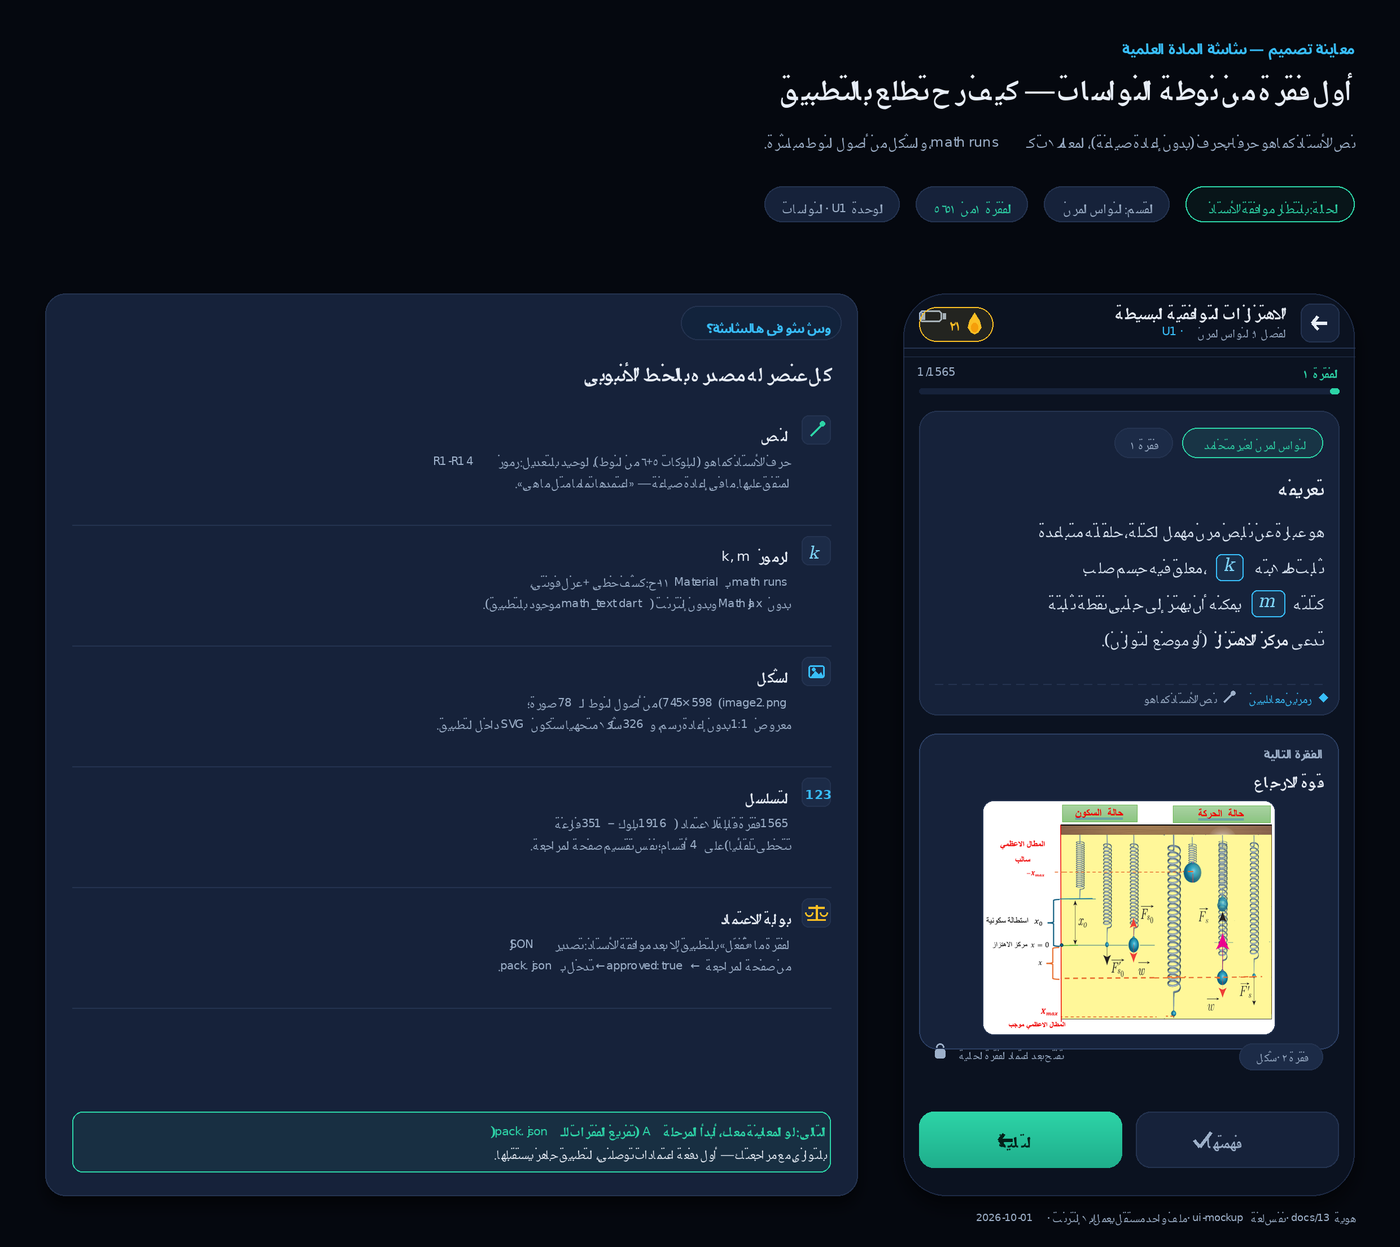
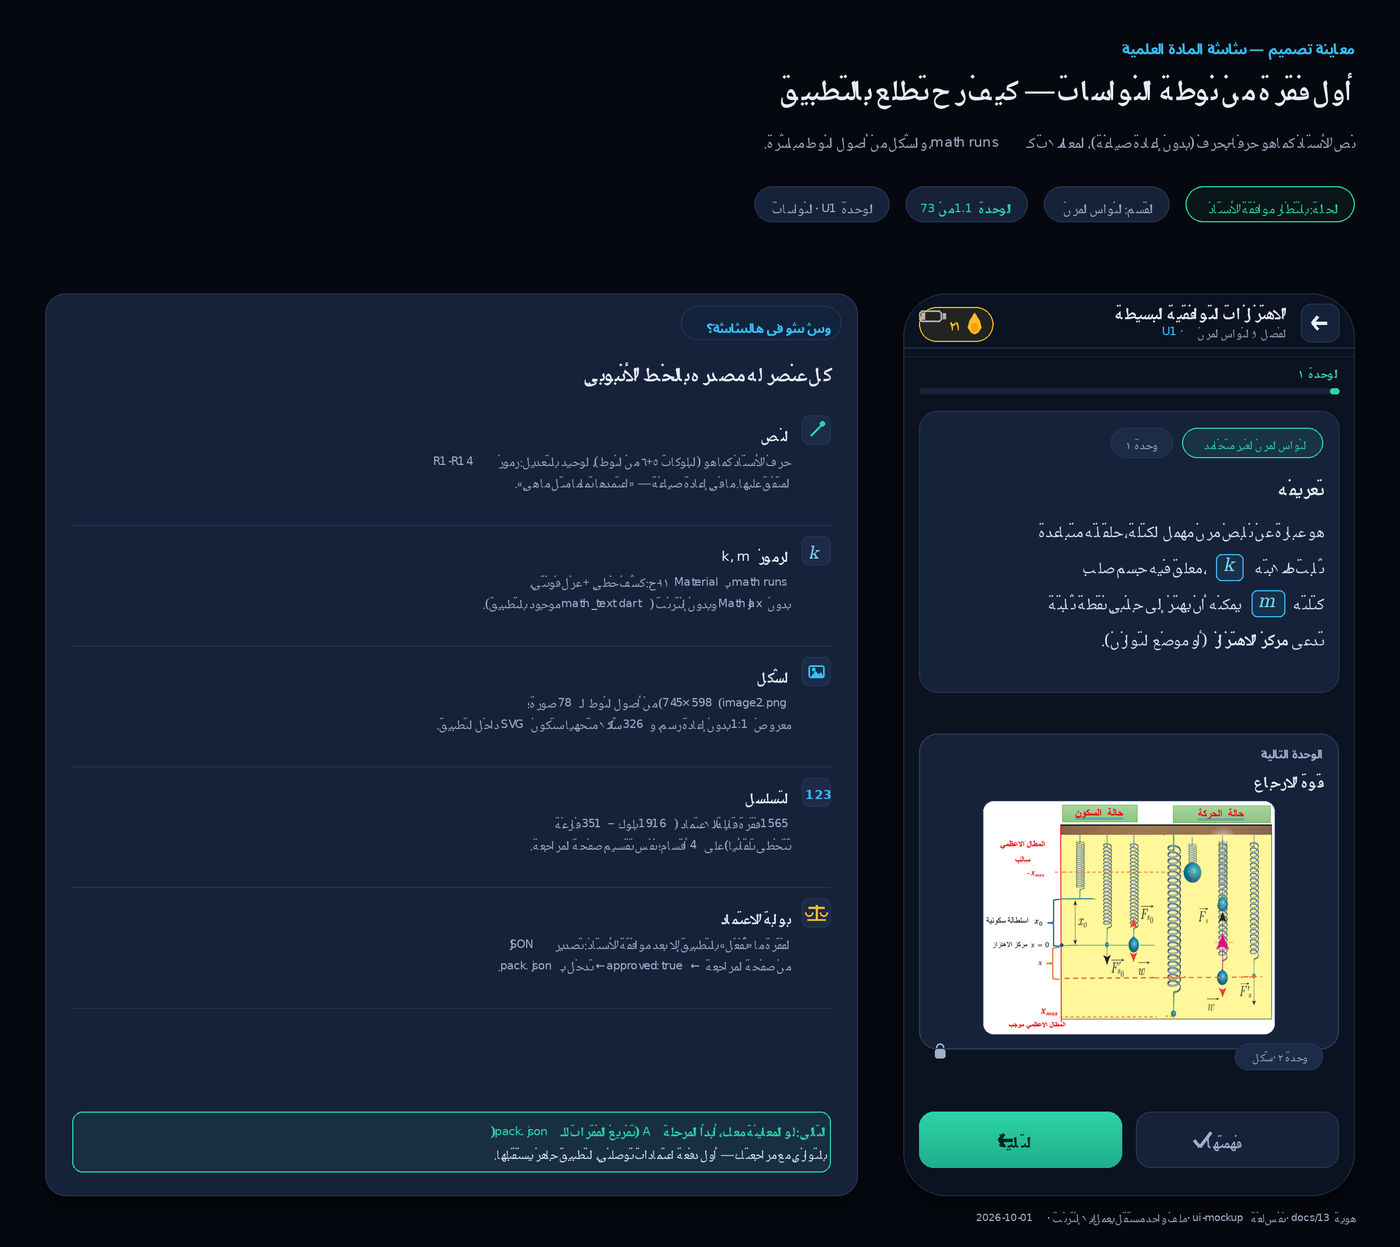
قرار ٧٨: تصحيحات شاشة الطالب (طلب المالك)
- حذف «نص الأستاذ كما هو» + «رمزين معادليين» (سطر الميتا كله — للمالك مو للطالب)
- حذف «الفقرة ١ من ١٥٦» و«1/1565» — المصطلح: «الوحدة ١» (1565 شمارة داخلية لصفحة المراجعة)
- المصطلح على شاشات الطالب: وحدة (مو فقرة) + «تفتح بعد اعتماد» محذوف (قفل بس)
- الرأس: شريحة «الوحدة 1.1 من 73»

Changed region(s): [[0.645, 0.5485, 0.9521, 0.6095], [0.5221, 0.1524, 0.7064, 0.1828], [0.9214, 0.2743, 0.9521, 0.3047]]

diff --git a/docs/35-UNIT-LEARNING-DESIGN.md b/docs/35-UNIT-LEARNING-DESIGN.md
@@ -1,7 +1,7 @@
 # ٣٥ — تصميم وحدة التعلم: دورة الفقرة الكاملة (النواسات)
 
 > **تاريخ:** 2026-10-01 · **الغالب:** hady-albnnai · **المراجعة:** الأستاذ فداء البني
-> **الحالة:** قرارات ٧٣–٧٧ معتمدة من المالك (رد مباشر 2026-10-01) · تصميم الشاشة 1 معتمد بصورته (كومِت `51ae7ae`).
+> **الحالة:** قرارات ٧٣–٧٨ معتمدة من المالك (رد مباشر 2026-10-01) · تصميم الشاشة 1 معتمد بصورته (كومِت `51ae7ae`).
 > **السياق:** بعد اعتماد معاينة الفقرة 1 (PNG + خط التطبيق + رمزا k/m)، رجع المالك تصميم طريقة العرض بالكامل:
 > «كل فقرة بتنتهي شرحها بنحط التجربة الموجودة وبطاقة مراجعة ومثال محلول وسؤال بيتجدد عن طريق الضغط على زر».
 
@@ -15,6 +15,7 @@
 | **٧٤** | **الوحدة = فكرة منطقية** (مو كل فقرة نصية) | النوط فيها 1565 فقرة قابلة للمراجعة؛ الوحدات ≈ **100 وحدة** (تقسيم يُعتمد وحدة وحدة في صفحة المراجعة). الوحدة الخفيفة تاخذ الحد الأدنى (شرح + بطاقة + سؤال) والثقيلة تاخذ الخمسة كاملة. |
 | **٧٥** | **بنية الوحدة (5 أجزاء، بالترتيب المعتمد)** | ١ **الشرح** (نص الأستاذ كما هو + رموز R1–R14 + الأشكال) ← ٢ **بطاقة مراجعة** (استرجاع نشط) ← ٣ **التجربة** (المحاكاة الموجودة بالتطبيق، **إذا كانت موجودة** للوحدة) + **سؤال تنبؤ** قبل التشغيل ← ٤ **المثال المحلول** (من أمثلة الأستاذ) ← ٥ **الاختبار الذاتي**: سؤال يتجدد بالزر «سؤال جديد» ∞. |
 | **٧٦** | **الاختبار الذاتي = اختياري (soft)** | ما في بوابة إجبارية بين الوحدات. زر «سؤال جديد» = تمرين لا نهائي (قوالب معاملية). «فهمتها» متاح دائماً. |
+| **٧٨** | **مصطلحات وشمارات الطالب (المالك صحّح 2026-10-01)** | على شاشات الطالب: المصطلح **وحدة** (مو «فقرة»). لا تظهر الشمارات الداخلية (1565 بلوك/فقرة) ولا تعليقات المصدر («نص الأستاذ كما هو»، «رمزين معادليين») ولا شرح آلية الاعتماد («تفتح بعد اعتماد...») — هذه كلها للمالك/الأستاذ خارج إطار الهاتف (تفصيل قرار ٧٣). |
 | **٧٧** | **طبقة التعليم نتألفها نحن (المالك صحّح 2026-10-01)** | نحن نتألف البطاقات + الأمثلة المحلولة + قوالب الأسئلة **بالاعتماد على المنهج الرسمي ونوط الأستاذ** (التعريفات → بطاقات، أمثلة الأستاذ/المنهج → أمثلة محلولة، المسائل العددية → قوالب متجددة). الأستاذ **يراجع ويعتمد وحدة-وحدة** (دورة «كل وحدة توصل → موافقة الأستاذ → اعتماد» — يعدي عليها ويعدل قبل الاعتماد). |
 
 **ترتيب ٣ قبل ٤ (تجربة ← مثال) — سبب المالك+التوصية:** الطالب يمسك الحدس من التجربة قبل المعالجة الرياضية، وسؤال التنبؤ يخلي التجربة نشطة مو مشاهدة سلبية (PhET: التنبؤ ثم التحقق > الاستكشاف الأعمى؛ المشاهدة السلبية ما بتعلم).
